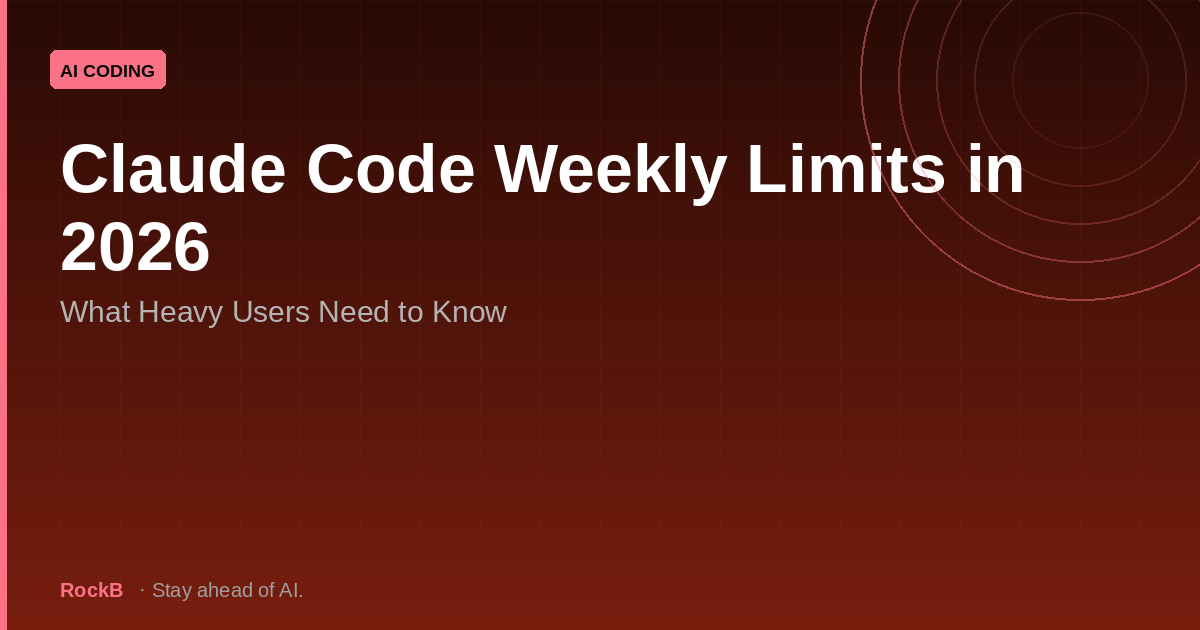
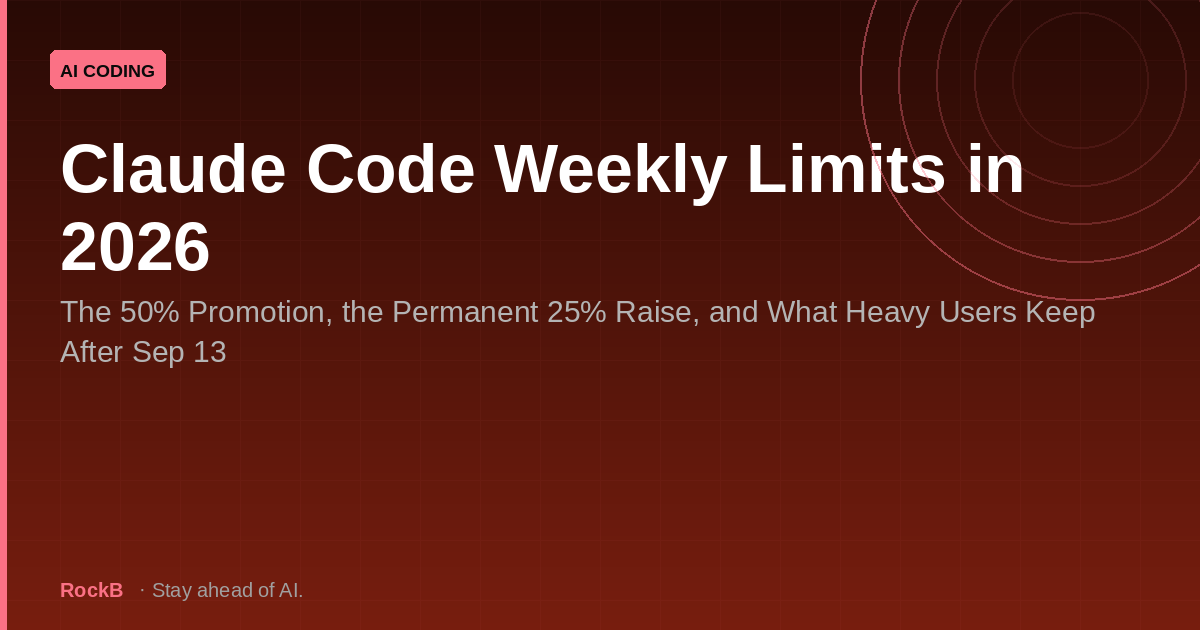
post: Claude Code Weekly Limits Promotion 2026: Usage Caps for Heavy Users

Changed region(s): [[0.0308, 0.4524, 0.925, 0.5127], [0.0308, 0.5429, 0.185, 0.573]]

diff --git a/layouts/partials/schema-claude-code-weekly-limits-promotion-2026.html b/layouts/partials/schema-claude-code-weekly-limits-promotion-2026.html
@@ -2,10 +2,10 @@
 {
   "@context": "https://schema.org",
   "@type": "Article",
-  "headline": "Claude Code Weekly Limits in 2026: What Heavy Users Need to Know",
-  "description": "Claude Code weekly limits rose 50% May 13–Sep 13, then a permanent 25% raise took effect Sep 14. Here's what heavy users actually keep and how to stretch it.",
-  "datePublished": "2026-09-14T10:01:46+00:00",
-  "dateModified": "2026-09-14T10:01:46+00:00",
+  "headline": "Claude Code Weekly Limits in 2026: The 50% Promotion, the Permanent 25% Raise, and What Heavy Users Keep After Sep 13",
+  "description": "Claude Code weekly limits changed in 2026: a 50% promo ended Sep 13, replaced by a permanent 25% raise. Here's the exact math heavy users keep and how to stretch it.",
+  "datePublished": "2026-09-15T10:00:57+00:00",
+  "dateModified": "2026-09-15T10:00:57+00:00",
   "author": {
     "@type": "Person",
     "name": "Baeseokjae"
@@ -13,9 +13,9 @@
   "keywords": [
     "claude code",
     "anthropic",
-    "usage limits",
-    "ai coding",
-    "pricing"
+    "claude code weekly limits",
+    "claude usage limits",
+    "ai coding"
   ],
   "mainEntityOfPage": {
     "@type": "WebPage",

diff --git a/content/posts/claude-code-weekly-limits-promotion-2026.md b/content/posts/claude-code-weekly-limits-promotion-2026.md
@@ -1,143 +1,123 @@
 ---
-title: "Claude Code Weekly Limits in 2026: What Heavy Users Need to Know"
-date: "2026-09-14T10:01:46+00:00"
+title: "Claude Code Weekly Limits in 2026: The 50% Promotion, the Permanent 25% Raise, and What Heavy Users Keep After Sep 13"
+date: "2026-09-15T10:00:57+00:00"
 tags:
   - claude code
   - anthropic
-  - usage limits
+  - claude code weekly limits
+  - claude usage limits
   - ai coding
-  - pricing
-description: "Claude Code weekly limits rose 50% May 13–Sep 13, then a permanent 25% raise took effect Sep 14. Here's what heavy users actually keep and how to stretch it."
+description: "Claude Code weekly limits changed in 2026: a 50% promo ended Sep 13, replaced by a permanent 25% raise. Here's the exact math heavy users keep and how to stretch it."
 draft: false
 cover:
   image: "/images/claude-code-weekly-limits-promotion-2026.png"
-  alt: "Claude Code Weekly Limits in 2026: What Heavy Users Need to Know"
+  alt: "Claude Code Weekly Limits in 2026: the 50% promotion, the permanent 25% raise, and what heavy users keep"
   relative: false
 schema: "schema-claude-code-weekly-limits-promotion-2026"
 ---
 
-Claude Code weekly limits rose by 50% during Anthropic's May 13 to September 13, 2026 promotion, then a permanent 25% raise took effect on September 14. Heavy users keep 25% more than their pre-promotion baseline, but lose roughly 17% relative to the promotional peak. Here is exactly what changed, what it costs, and how to make the most of your allowance.
+Claude Code weekly limits are higher in 2026 than they were at the start of the year, but the number that matters shifted on September 14: the 50% promotional boost that ran from May 13 to September 13 has expired, and Anthropic replaced it with a permanent 25% raise to standard weekly limits on Pro, Max, Team, and seat-based Enterprise plans. Relative to the promotional peak you may have grown used to, that is a drop of about 17% — so heavy users are essentially giving back part of their summer allowance while still keeping more than their original baseline. This guide walks through the full 2026 timeline, the exact math, and practical tactics to stretch the limits you actually have.
 
 ## The 2026 Timeline: How Claude Code Limits Changed This Year
 
-Anthropic made three significant changes to Claude Code usage this year, and many users confuse them.
+Anthropic made three separate changes to Claude Code usage limits in 2026, and heavy users who only noticed one of them have a distorted picture of their allowance. Here is the order in which they landed.
 
-First, on **May 6, 2026**, Anthropic doubled the five-hour rate limits for Pro, Max, Team, and seat-based Enterprise users, and removed peak-hour reductions that previously throttled usage during busy periods. This was a real, structural change to session throughput, not just a temporary boost.
+**May 6, 2026 — five-hour limits doubled.** On this date Anthropic doubled Claude Code five-hour rate limits for Pro, Max, Team, and seat-based Enterprise plans, and simultaneously removed peak-hour reductions that had throttled usage during busy periods. This was a direct response to heavy users hitting session caps in the middle of long working sessions (source: morphllm.com).
 
-Second, on **May 13, 2026**, the company launched a weekly-limits promotion. For Pro, Max, and Team subscribers plus legacy seat-based Enterprise customers, Claude Code weekly usage limits increased by 50%. Free-plan and consumption-based Enterprise users were excluded. This promotion applied automatically with no action required.
+**May 13, 2026 — 50% weekly promotion begins.** Just a week later, Anthropic raised Claude Code weekly usage limits by 50% for the same eligible plans. The increase applied automatically, with no action or opt-in required from the user (source: support.claude.com).
 
-Third, on **September 14, 2026**, the promotion ended and was replaced by a permanent 25% raise to standard weekly limits on the same plans.
+**September 14, 2026 — permanent 25% raise replaces the promotion.** The promotional 50% expired at 11:59 PM PT on September 13, and a permanent 25% raise to standard weekly limits took effect the next day for Pro, Max, Team, and seat-based Enterprise users (source: bleepingcomputer.com).
 
-| Date | Change | Scope |
-|------|--------|-------|
-| May 6, 2026 | Five-hour rate limits doubled; peak-hour reductions removed | Pro, Max, Team, seat-based Enterprise |
-| May 13, 2026 | Weekly limits raised 50% (promotion) | Pro, Max, Team, seat-based Enterprise |
-| Sep 14, 2026 | Permanent 25% raise on standard weekly limits | Pro, Max, Team, seat-based Enterprise |
-
-The net effect for most users: your allowance is now permanently higher than before the promotion, but lower than the temporary peak you may have gotten used to over the summer.
+The net effect is that a heavy user's weekly ceiling today is higher than it was in early 2026, but noticeably lower than it was during the promotional window. Understanding that three-step sequence is the difference between "my limits got cut" and an accurate picture of where your allowance actually stands.
 
 ## What the 50% Promotion Covered (and What It Didn't)
 
-The promotion was generous but narrowly scoped, and the fine print matters.
+The promotional increase was specifically about Claude Code weekly usage, and it did not touch several other limits that users often confuse with it.
 
-**What it covered:** The 50% boost applied to Claude Code weekly usage on Pro, Max, and Team subscription plans, plus legacy seat-based Enterprise accounts. It covered Claude Code specifically, which Anthropic defines as the CLI, IDE extensions, desktop app, and web-based coding. The increase applied automatically to eligible accounts.
+**What was included.** The 50% boost applied to the weekly usage allowance in Claude Code across all its surfaces — the CLI, IDE extensions, the desktop app, and the web/agent experience. It covered Pro, Max, and Team plans, plus legacy seat-based Enterprise accounts. Free plan users and consumption-based (pay-as-you-go) Enterprise accounts were explicitly excluded, because neither of those meter usage the same way as subscription plans (source: support.claude.com).
 
-**What it didn't cover:** Free users were excluded entirely, and consumption-based Enterprise customers did not benefit. The five-hour session limits stayed exactly where they were — the promotion did not touch them. If a long-running session was your bottleneck, the 50% weekly boost did not help you there.
+**What was not included.** The promotion did not affect five-hour session limits at all — those remain governed by the separate per-session window that resets every five hours regardless of your weekly pool. It also did not change Claude chat or Cowork limits; the extra 50% was Claude Code only. If you were hoping the promotion would also stretch your Claude app conversation allowance, it did not (source: support.claude.com).
 
-**Crucially, the boost applied only to Claude Code, not to every Claude surface.** Your Claude chat and Cowork usage limits were unchanged. The weekly pool is shared across Claude surfaces for paid subscribers, but the promotion only raised the Claude Code portion of the allowance.
+This matters for budgeting. A heavy user who maximized the promotional weekly pool but still hit the five-hour session cap kept getting stopped mid-afternoon, because the promotion deliberately did nothing for the session window. The session limit and the weekly limit are two independent meters, and only one of them was boosted.
 
 ## What Happens Now: The Permanent 25% Raise and the Honest "17% Cut" Math
 
-Here is where the numbers get confusing, and many headlines have made it worse.
+Anthropic has acknowledged that framing this as a straightforward "cut" is confusing, and the numbers explain why. The three values to keep straight are your baseline, your promotional peak, and your new standard.
 
-Say your pre-promotion baseline was **100 units** of weekly Claude Code usage. During the promotion, that became **150** — a 50% increase. When the promotion ended on September 14, the allowance dropped to a new permanent standard of **125**, a 25% raise above your original baseline.
+Take a baseline weekly allowance of 100 (units are opaque — Anthropic does not publish token counts, so think of this as a normalized index). During the promotion it became 150. After September 14, with the permanent 25% raise over your pre-promotion baseline, it is 125. Compared to the promotional peak of 150, that new value of 125 is about a 17% reduction; compared to your original baseline of 100, it is still a 25% increase.
 
-Relative to your baseline, you are up 25%. Relative to the promotional peak of 150, you are down 25 units — which is about **17%** of 150.
+Anthropic acknowledged the framing directly on X, stating: "Compared to today, this works out to a 17% reduction in weekly limits on Claude Code" (source: bleepingcomputer.com). The honest reading is that heavy users are not being cut below where they started the year — they are being asked to give back roughly the top slice of a temporary bonus while keeping a permanently higher standard allowance.
 
-Anthropic itself acknowledged this framing on X: "Compared to today, this works out to a 17% reduction in weekly limits on Claude Code." That statement was comparing the new 125 against the promotional 150, not against your original baseline.
-
-So the honest summary for heavy users: **the promotion was a temporary buffer you have now lost part of, but you are still permanently better off than you were before May 2026.** The "17% cut" headline is real but misleading on its own — it compares against a temporary peak, not your starting point.
+For heavy users this is the practical number that matters: the days of a 50%-boosted pool are over, and your new monthly usable ceiling is 25% above your early-2026 level, not 50%. If you sized your workflow around the promotional peak, you now have roughly 17% less weekly headroom than you did in August, and you should plan accordingly.
 
 ## How Claude Code Weekly Limits Actually Work (Session vs Weekly vs Models)
 
-To plan around your limits, you need to understand the four things users routinely confuse.
+A recurring source of confusion is that "Claude Code limits" actually refers to several distinct meters, and users regularly mix them up. Here is how the system breaks down.
 
-**1. Usage limit.** This is your plan allowance, reset on a fixed weekly window (plus separate five-hour session windows). This is what the promotion and the permanent raise adjusted.
+**Weekly usage limit.** This is your plan's allowance that resets on a fixed weekly window. It is not a fixed number of prompts. Anthropic does not publish token counts; instead, plans are expressed as multipliers, and the actual drain per request varies with conversation length, which model you select, tool usage, and the effort level of the task (sources: claudecode101.com, superblocks.com).
 
-**2. Context or length limit.** This is the maximum size of a conversation before the model degrades. This is not a plan allowance and cannot be raised by upgrading — you trim it with `/compact` or `/clear`.
+**Five-hour session limit.** Separate from the weekly pool, this resets every five hours and governs how much you can run during a single working session. It was doubled on May 6 and was not part of the weekly promotion.
 
-**3. Rate limit.** This is how many requests per minute you can send. This is what Anthropic doubled on May 6, 2026.
+**Context / length limit.** The size of the conversation your model can hold before it degrades or must be trimmed. Managed with `/compact` and `/clear` rather than with any plan setting.
 
-**4. Credit or spend limit.** For API-key users, this is how much money you spend per token. API metering is per-token, not a flat weekly allowance.
+**Rate limit and credit / spend limit.** A rate limit throttles the pace of requests, while the credit/spend limit applies to API-key usage, which is metered per token rather than against a subscription allowance.
 
-Two more facts shape how heavy users should plan:
-
-- **Paid subscription usage is shared across Claude surfaces.** The Claude app and Claude Code draw from the same weekly pool. Using heavy Claude chat sessions eats into your Claude Code allowance.
-- **Weekly allowance is not a fixed prompt count.** Anthropic does not publish exact token counts. Your actual usage varies by conversation length, model choice, tool usage, and effort level (standard versus extended thinking).
-
-In the CLI, `/usage` shows your current allowance and remaining units; `/cost` shows API spend if you are metered per token. Checking `/usage` after September 14 is the fastest way to see your new permanent limits.
+An additional wrinkle is shared accounting. On subscription plans, usage is shared across Claude surfaces — the Claude app and Claude Code draw from the same weekly pool — whereas API keys are metered per token and never touch your subscription allowance (source: claudecode101.com). Run `/usage` in the CLI to see your current allowance and how much of the window you have consumed, and `/cost` to see API spend.
 
 ## Heavy-User Tactics: /compact, /clear, Model-Switching, and Off-Peak Scheduling
 
-If you are a heavy user who felt the summer boost and now needs to adapt, these tactics stretch your weekly allowance substantially.
+Because the weekly allowance is not a fixed prompt count, the single most effective lever for heavy users is reducing how much of that allowance each task consumes rather than trying to raise the ceiling. These tactics are the ones the research consistently recommends.
 
-**Trim context instead of burning allowance.** Long conversations consume more of your weekly pool than short ones because the model re-reads earlier turns. Use `/clear` to start a clean conversation when a task is finished, and `/compact` to summarize a long thread before continuing. Power users report this is the single most effective way to stretch a weekly limit — shorter context means more tasks per week.
+**Use `/compact` and `/clear` aggressively.** A long-running conversation that accumulates weeks of context burns far more weekly allowance per prompt. `/compact` summarizes prior context into a shorter form, and `/clear` wipes the session entirely when you are starting a fresh task. For heavy users, trimming stale context is the difference between stretching a weekly pool and exhausting it by mid-week (source: claudecode101.com).
 
-**Switch models deliberately.** Sonnet is far more economical for batch and routine work than Opus. Save Opus for planning, architecture judgment, and genuinely hard problems. A common pattern: run the bulk of a coding task on Sonnet, then switch to Opus for the design decisions where its reasoning earns the cost.
+**Keep routine batch work on Sonnet and reserve Opus for planning.** Model choice changes the per-prompt cost dramatically. Sonnet is the sensible default for bulk code generation and refactoring, while the more expensive Opus is best reserved for complex architecture, planning, and high-stakes reasoning where its quality justifies the draw on your allowance (source: claudecode101.com).
 
-**Time your sessions around the five-hour window.** The May 6 rate-limit doubling changed throughput, but the five-hour session window still resets independently. Scheduling longer work across a window boundary can keep a heavy session from stalling.
+**Schedule heavy work off-peak and keep sessions short.** With peak-hour reductions gone since May 6, the pacing advantage is now mostly about the five-hour session rhythm. Because the session limit is independent of the weekly pool, planning around five-hour resets — rather than burning through them — lets you stay productive across a full day without tripping the session cap.
 
-**Watch your shared pool.** If you are also using Claude in the browser for chat or Cowork, remember the weekly allowance is shared. Offloading long-form chat to a cheaper tool can free up Claude Code capacity.
+**Treat context size as a budget.** Since drain scales with conversation length, breaking large tasks into smaller, fresh sessions after `/clear` keeps each prompt cheaper even if you run more of them.
 
 ## When You Still Hit the Cap: Wait, Enable Usage Credits, or Upgrade
 
-Every Claude Code workflow eventually hits a limit. You have three real options, and the right one depends on how often it happens and how much you value your time.
+Even with good hygiene, heavy users will eventually press against the weekly limit. At that point you have three realistic paths, and the right one depends on how frequently you hit the wall.
 
-**Wait for the reset.** Weekly limits reset on a rolling window. If you hit the cap near the end of your cycle and the work can wait, waiting is free. The downside is dead time.
+**Wait for the reset.** The weekly window resets on a fixed cadence, and the five-hour session limit resets continuously. If your need is sporadic, simply waiting is free and correct.
 
-**Enable usage credits.** When you exceed a subscription cap, Claude can auto-switch you to pay-per-token at API rates. This gives you unlimited runway past the cap at real-money cost. Anthropic caps this path around **$2,000 per day**, which is effectively unlimited for a single engineer but can be a shock if you leave it running.
+**Enable usage credits (pay-per-token).** Once you pass the plan cap, Claude Code can auto-switch to pay-per-token at API rates, so you can keep working without waiting for the reset. This comes with a spending ceiling of roughly $2,000 per day, and it can kick in without an explicit warning — worth knowing before you leave a long task running unattended (sources: superblocks.com, morphllm.com).
 
-**Upgrade plans.** A higher Max tier multiplies your per-session and weekly capacity: Max 5x gives 5x the Pro baseline, and Max 20x gives 20x. Team Premium seats carry a 6.25x multiplier on standard seats. If you hit the cap weekly, the upgrade pays for itself in avoided downtime.
-
-One more realistic option for the truly hard cases: run the heavy, repetitive parts of a task through the API on a cheaper or faster model and save your subscription allowance for the interactive work where Claude Code shines.
+**Upgrade to a higher plan.** If you are regularly hitting the cap during normal work, the cleanest fix is a plan with a larger multiplier rather than paying per-token overages. Which one fits depends on the math in the next section.
 
 ## Which Plan Should a Heavy User Buy in 2026? (Pro vs Max 5x vs Max 20x vs Team)
 
-Plan pricing in 2026 is well documented, and the multipliers matter more than the dollar amounts.
+The 2026 plan matrix gives heavy users a clear ladder. All subscription usage resets weekly plus on a five-hour window, and Anthropic expresses capacity as multipliers rather than token counts (source: superblocks.com).
 
-| Plan | Price | Weekly multiplier (approx.) | Best for |
-|------|-------|-----------------------------|----------|
-| Free | $0 | Claude Code excluded | Testing the CLI only |
-| Pro | $20/mo ($17 annual) | 1x baseline | Light-to-moderate users, few hours/day |
-| Max 5x | $100/mo | ~5x Pro | Heavy users on larger repos |
-| Max 20x | $200/mo | ~20x Pro | Full-time, multi-project power users |
-| Team Standard | $25/seat/mo | 1.25x seat | Small teams |
-| Team Premium | $125/seat/mo | 6.25x seat | Teams with heavy Opus usage |
-| Enterprise | $20/seat + usage | negotiated | Large orgs with governance needs |
+| Plan | Price | Claude Code capacity | Best for |
+|------|-------|----------------------|----------|
+| Free | $0 | None (Claude Code excluded) | Experimenting with Claude chat only |
+| Pro | $20/mo ($17/mo annual) | 5x free per-session baseline | Light-to-moderate users, a few hours/day mostly on Sonnet |
+| Max 5x | $100/mo | 5x Pro per-session capacity | Heavy users on large repos who need Opus and long sessions |
+| Max 20x | $200/mo | 20x Pro per-session capacity | Very heavy users running continuous batch work |
+| Team Standard | $25/seat/mo | 1.25x multipliers per seat | Small teams with shared, moderate usage |
+| Team Premium | $125/seat/mo | 6.25x multipliers per seat | Teams needing heavy shared capacity |
 
-For a genuinely heavy user, **Max 5x at $100 is the sweet spot** — it gives 5x the Pro-per-session capacity and a proportionally larger weekly allowance, and it fits developers who spend several hours a day in the CLI at Sonnet with occasional Opus jumps. Users who live in large monorepos with heavy Opus usage consistently need **Max 20x at $200** to avoid hitting the cap mid-afternoon.
-
-Pro is viable only for light-to-moderate users. If you are hitting the weekly cap on Pro more than once a month, the math favors Max: the $80 monthly step from Pro to Max 5x buys you roughly 5x the capacity, which is likely cheaper than the dead time and pay-per-token overages you are living with now.
-
-Teams with more than a handful of heavy members should compare Team Premium ($125/seat) against per-seat Max licenses; the 6.25x premium multiplier frequently wins on cost-per-unit.
+For a solo heavy user, the practical threshold is where you sit between Pro and Max. Pro is a good fit if you work a few hours a day and can stay on Sonnet; once you are regularly using Opus on large repositories, the research points to Max as the place where the per-session capacity stops being the bottleneck. Max 5x at $100/mo gives five times Pro's per-session capacity, and Max 20x at $200/mo gives twenty times — the choice between them is essentially whether a 5x session is enough to finish your typical working day, or whether you need the headroom of 20x for concurrent or round-the-clock batch workloads. A note on Fable 5: it draws from the same weekly pool as Claude Code and is capped at 50% of it on Max and premium seats, so plan around it as part of your total allowance (source: morphllm.com).
 
 ## Frequently Asked Questions
 
-**Q: What are the current Claude Code weekly limits in 2026?**
-A: Anthropic does not publish exact token or message counts. The key change is that effective September 14, 2026, standard weekly limits are permanently 25% above the pre-May-2026 baseline for Pro, Max, Team, and seat-based Enterprise plans. Run `/usage` in the CLI to see your exact remaining allowance.
+**Are Claude Code weekly limits higher now than they were at the start of 2026?**
+Yes. The permanent 25% raise that took effect September 14 gives Pro, Max, Team, and seat-based Enterprise users a standard weekly allowance 25% above their pre-2026 baseline — even though it is lower than the temporary 50% promotional peak that ran May 13 through September 13 (source: bleepingcomputer.com).
 
-**Q: Did the 50% promotion increase my limits permanently?**
-A: No. The 50% boost ran from May 13 to September 13, 2026. It was replaced on September 14 by a permanent 25% raise. You keep a permanent improvement over your original baseline, but not the full 50% promotional buffer.
+**Is the 50% Claude Code promotion still active?**
+No. The promotion expired at 11:59 PM PT on September 13, 2026. It was replaced by a permanent 25% raise to standard weekly limits, which compared to the promotional peak is roughly a 17% reduction in weekly capacity (sources: support.claude.com, bleepingcomputer.com).
 
-**Q: Why do some headlines talk about a 17% cut to Claude Code limits?**
-A: The 17% figure compares the new permanent 125 units against the promotional peak of 150 units (baseline 100 → promo 150 → new 125). Compared to your original baseline, you are actually up 25%. The "cut" is only relative to the temporary summer peak.
+**What counts toward my weekly limit, and how do I check it?**
+Your weekly allowance covers all Claude Code usage on a subscription plan, and it is shared with the Claude app on the same account. The exact drain depends on conversation length, model, and tool usage rather than a fixed prompt count. Run `/usage` in the CLI to see your current and elevated limits (sources: claudecode101.com, support.claude.com).
 
-**Q: What is the /usage command in Claude Code?**
-A: `/usage` is the CLI command that shows your current weekly allowance and remaining usage units. `/cost` shows API spend for pay-per-token metering. Run `/usage` right after a limit change to confirm your new allowance.
+**Did the promotion change my five-hour session limit?**
+No. The 50% promotion applied to the weekly allowance only. Five-hour session limits were separately doubled on May 6, 2026, and were unaffected by the weekly promotion (sources: support.claude.com, morphllm.com).
 
-**Q: Which Claude Code plan is best for a heavy user?**
-A: Max 5x at $100/month is the best value for most heavy users, giving roughly 5x Pro capacity. Users who work in large monorepos with heavy Opus usage typically need Max 20x at $200/month. Pro at $20 is only for light-to-moderate workloads.
+**Does the Free plan include Claude Code?**
+No. The Free plan does not include Claude Code at all, so it was never eligible for the promotion. Claude Code requires a paid subscription (Pro, Max, Team, or seat-based Enterprise) or an API-key setup with per-token metering (sources: superblocks.com, morphllm.com).
 
 ## Bottom Line for Heavy Claude Code Users
 
-The 2026 limit saga boils down to three facts. You are permanently better off than you were nine months ago: the 25% structural raise exceeds the original baseline even after the 50% promotion ended. The "17% cut" only applies relative to a temporary summer peak, and it is not a removal of your gains. And the fastest way to adapt is not to pay more — it is to use `/compact` and `/clear` aggressively, keep routine work on Sonnet, and reserve Opus for the problems that genuinely need it. Your weekly allowance is finite, but with the right habits it stretches further than the pricing pages suggest.
+The 2026 story is not a loss for heavy users — it is a rebalancing. You end the year with a permanent weekly ceiling 25% higher than where you started, even though the summer's 50% bonus has come back down. The practical takeaway is to stop sizing your workflow around the promotional peak, treat the new standard as your real budget, and rely on the levers that actually control consumption: `/compact` and `/clear` to trim context, Sonnet for batch work with Opus reserved for planning, and five-hour session planning. Run `/usage` to see your new numbers, and if you are still hitting the wall regularly, the upgrade ladder from Pro to Max 5x to Max 20x is the cleaner answer than paying per-token overages on a regular basis.
